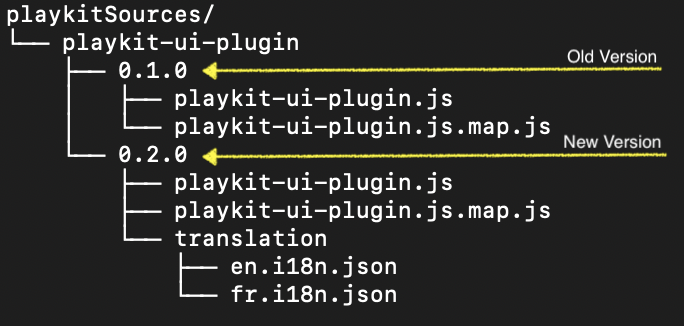
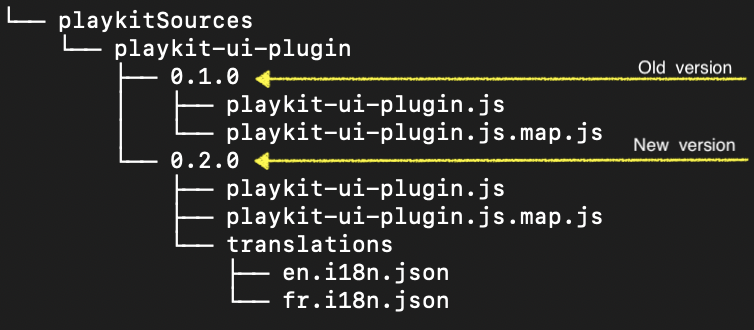
typo

Changed region(s): [[0.0, 0.0, 1.0, 0.9509]]

diff --git a/docs/localization.md b/docs/localization.md
@@ -3,14 +3,14 @@
 This article explains how to upload translation dictionaries to Kaltura platform,
 and how to control the language that actually will be served to the player.
 
-> This feature uses the `ui.translations` config, for more details see [Adding translations and choosing locale language](https://github.com/kaltura/playkit-js-ui/blob/master/docs/translations.md)
+> This feature uses the `ui.translations` config, for more details see [Adding translations and choosing locale language](https://github.com/kaltura/playkit-js-ui/blob/master/docs/translations.md).
 
 ## Uploading translation dictionaries via Kaltura platform
 
 Plugin which served by Kaltura platform (via the bundle builder) can upload its translation dictionaries also by Kaltura platform.
-To get this ability, The plugin needs to add the translation json file/s (`*.i18n.json`) under a `translation` folder in location of the plugin source code and source map.
+To get this ability, The plugin needs to add the translation json file/s (`*.i18n.json`) under a `translations` folder in the location of the plugin source code and source map.  
 For example: Plugin called _playkit-ui-plugin_, which contains, in the dist folder, 2 files - `playkit-ui-plugin.js` and `playkit-ui-plugin.js.map`,
-Will add a `translation` folder with the translation file/s:
+Will add a `translations` folder with the translation file/s:
 ![](images/translation-tree.png)
 Each json file contains the translation dictionary under the language code key.
 For example `en.i18n.json` looks like:
